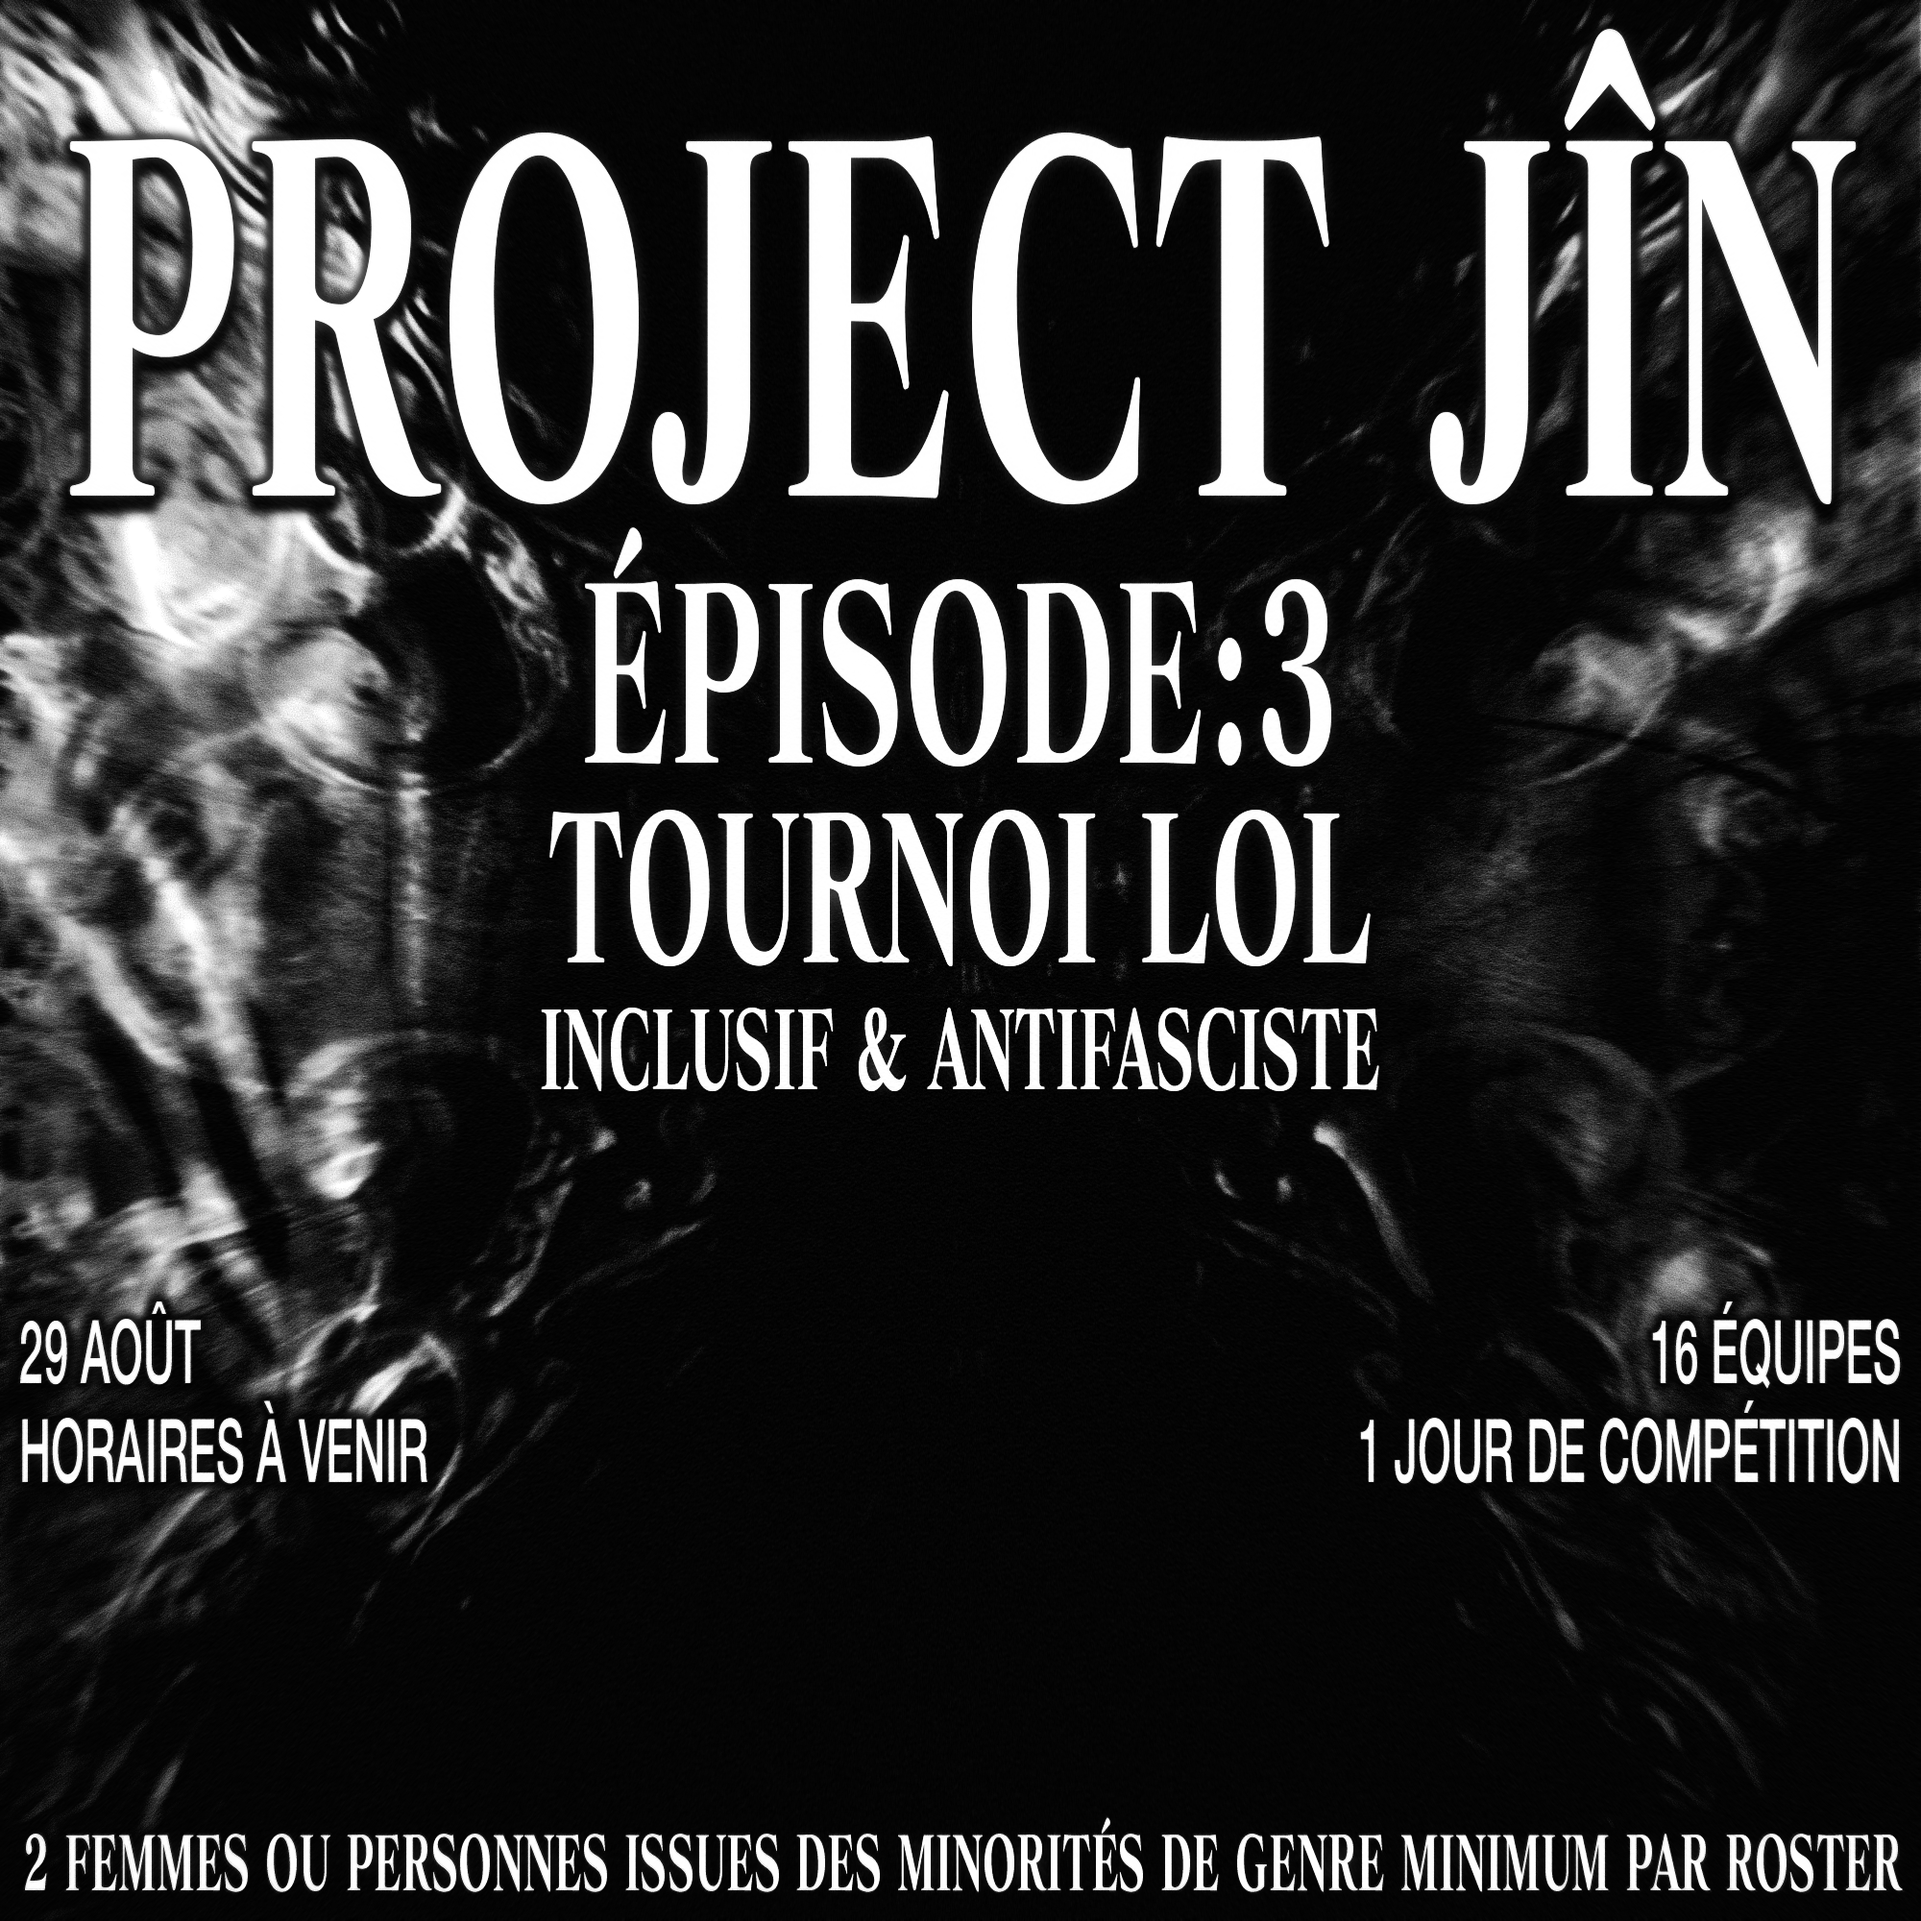
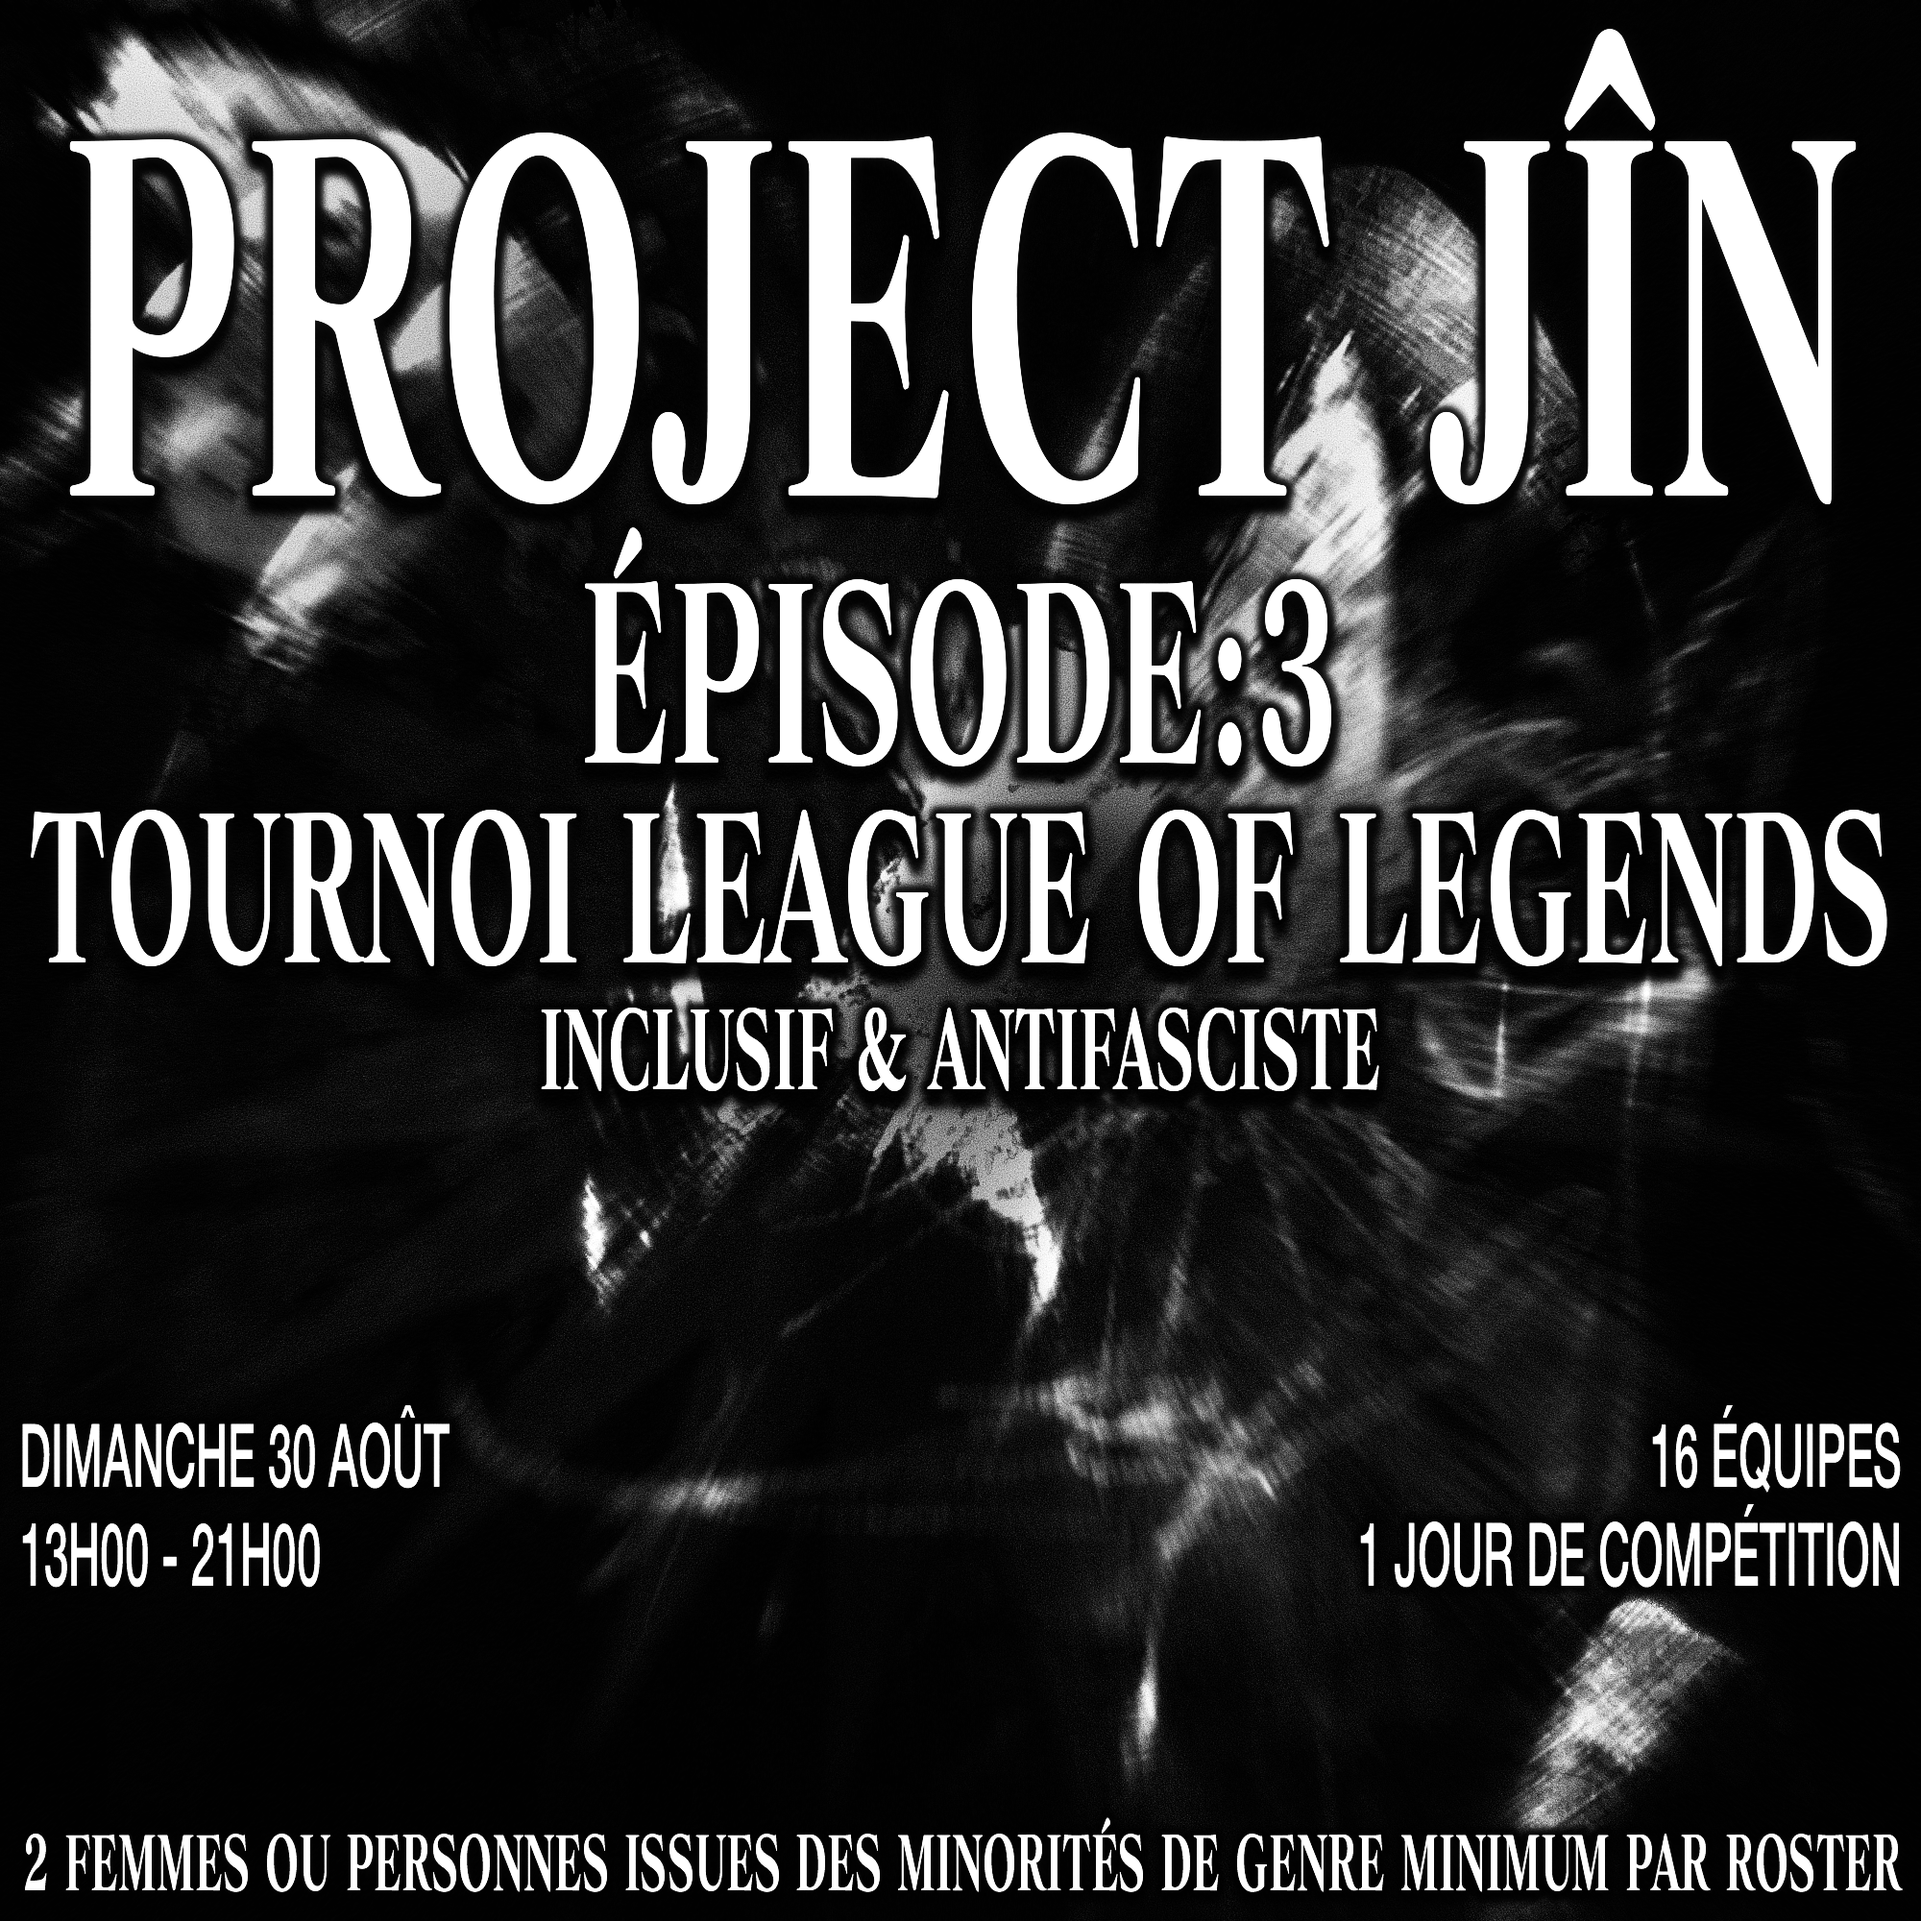
Update

diff --git a/src/data/teams.js b/src/data/teams.js
@@ -77,7 +77,7 @@ export const teams = [
       {
         pseudo: "skiddo",
         pronouns: "elle / she",
-        flagImage: "/flags/flag_fr.png",
+        flagImage: "/flags/flag_kh.png",
       },
     ],
     coach: null,
@@ -103,7 +103,7 @@ export const teams = [
       },
       {
         pseudo: "Lumen",
-        pronouns: "il / he",
+        pronouns: "elle / she",
         flagImage: "/flags/flag_fr.png",
         role: "MID",
       },
@@ -1171,43 +1171,6 @@ export const teams = [
     ],
     coach: null,
     result: "7-8e place",
-  },
-  {
-    id: "team-100",
-    editionId: "ep-3",
-    name: "JOUEURS ET JOUEUSES LIBRES",
-    pool: true,
-    logo: "/team-logos/tbd.png",
-    players: [
-      {
-        pseudo: "Colevag",
-        pronouns: "il / he",
-        flagImage: "/flags/flag_fr-norm.png",
-      },
-      {
-        pseudo: "Kesscro",
-        pronouns: "il / he",
-        flagImage: "/flags/flag_be.png",
-      },
-      {
-        pseudo: "Static2k",
-        pronouns: "il / he",
-        flagImage: "/flags/flag_fr.png",
-      },
-      {
-        pseudo: "Ulyxx3",
-        pronouns: "il / he",
-        flagImage: "/flags/flag_fr.png",
-      },
-      {
-        pseudo: "Zweely",
-        pronouns: "il / he",
-        flagImage: "/flags/flag_fr.png",
-      },
-    ],
-    subs: [],
-    coach: null,
-    result: null,
   },
 ];
 

diff --git a/src/data/streams.js b/src/data/streams.js
@@ -18,7 +18,7 @@
 //    donné : juste `{ login: "..." }`.
 // ─────────────────────────────────────────────────────────────
 
-export const mainStreamLogin = "hezus";
+export const mainStreamLogin;
 
 export const extraStreams = [
   // { login: "chaine-du-staff" },
